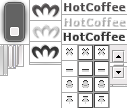
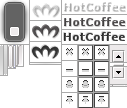
скининг

diff --git a/Skins/IEView/styles/PhotoOne_Dark.css b/Skins/IEView/styles/PhotoOne_Dark.css
@@ -107,12 +107,16 @@ div.avatar {
 }
 
 .MessageIn, .hMessageIn, .frame_MessageInGroupStart, .frame_hMessageInGroupStart {
+	border-left: 1px solid #807A7B;
 	border-top: 1px solid #807A7B;
+	border-right: 1px solid #333232;
 	border-bottom: 1px solid #333232;
 }
 
 .MessageOut, .hMessageOut, .frame_MessageOutGroupStart, .frame_hMessageOutGroupStart {
+	border-left: 1px solid #807A7B;
 	border-top: 1px solid #807A7B;
+	border-right: 1px solid #333232;
 	border-bottom: 1px solid #333232;
 }
 
@@ -163,7 +167,9 @@ div.avatar {
 }
 
 .Status, .hStatus {
+	border-left: 1px solid #867468;
 	border-top: 1px solid #867468;
+	border-right: 1px solid #3D352F;
 	border-bottom: 1px solid #3D352F;
 }
 
@@ -184,7 +190,9 @@ div.avatar {
 }
 
 .FileIn, .hFileIn, .FileOut, .hFileOut {
+	border-left: 1px solid #6B836B;
 	border-top: 1px solid #6B836B;
+	border-right: 1px solid #303C30;
 	border-bottom: 1px solid #303C30;
 }
 
@@ -205,6 +213,8 @@ div.avatar {
 }
 
 .URL, .hURL {
+	border-left: 1px solid #66768B;
 	border-top: 1px solid #66768B;
+	border-right: 1px solid #2E363F;
 	border-bottom: 1px solid #2E363F;
 }

diff --git a/Skins/IEView/styles/PhotoOne_Light.css b/Skins/IEView/styles/PhotoOne_Light.css
@@ -10,14 +10,14 @@ input {
 	border-top: 1px solid #FFFFFF;
 	border-right: 1px solid #B4B4B4;
 	border-bottom: 1px solid #B4B4B4;
-	color: #404040;
+	color: #595959;
 }
 
 html {
 	scrollbar-face-color: #EDEAEB;
 	scrollbar-highlight-color: #EDEAEB;
 	scrollbar-shadow-color: #EDEAEB;
-	scrollbar-arrow-color: #404040;
+	scrollbar-arrow-color: #595959;
 	scrollbar-3dlight-color: #FFFFFF;
 	scrollbar-darkshadow-color: #B4B4B4;
 	scrollbar-track-color: #F4F2F3;
@@ -27,7 +27,7 @@ html {
 	padding: 0px 0px 0px 0px;
 	margin: 0;
 	font-size: 13px;
-	color: #404040;
+	color: #595959;
 	zoom: 0 !important;
 }
 
